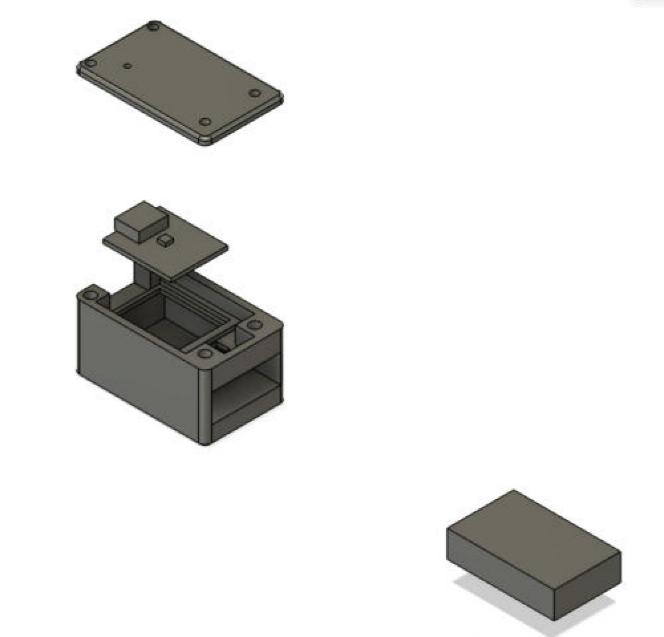
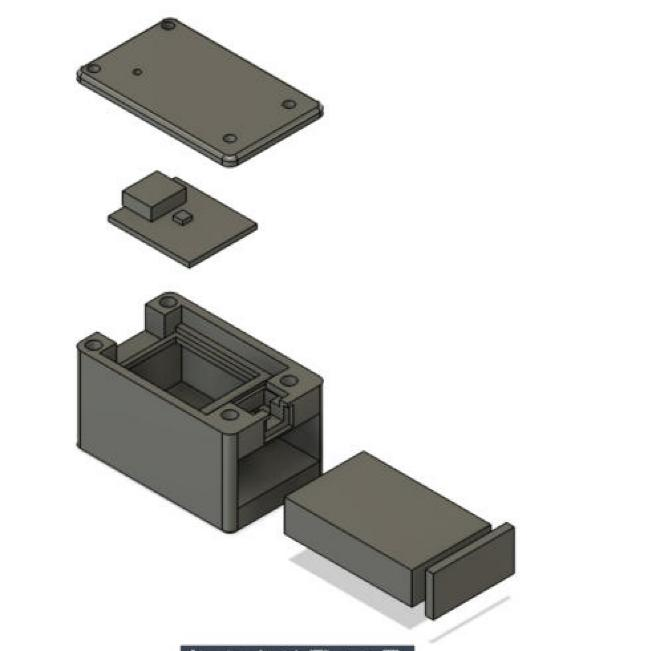
Exploded view redone with the battery door and switch cradle

Changed region(s): [[0.0904, 0.2386, 0.9639, 1.0], [0.0904, 0.0, 0.512, 0.2684]]

diff --git a/hardware/enclosure.md b/hardware/enclosure.md
@@ -169,7 +169,8 @@ Changes from the sketch above, and why:
 - **Stand-ins and exploded view (2026-10-18):** the script also adds `XIAO (stand-in)`
   (board, USB-C block, IMU marker) and `LiPo (stand-in)`, each its own component, so
   Inspect > Interference can catch a real size that won't fit. Exploded view made in the
-  Animation workspace (Auto Explode one level, scale ~2, lid lifted 6 cm):
+  Animation workspace (Auto Explode one level, lid lifted 6 cm, board 2.5 cm; redone with the
+  battery door and switch cradle):
   ![exploded](enclosure/pod_v1_exploded.jpg)
 - **Battery door (2026-10-18):** a separate press-fit plug (`Battery door`, `plug_fit` 0.15 mm
   per side) fills the end slot flush, so the cell can't slide out and that face stays flat.
